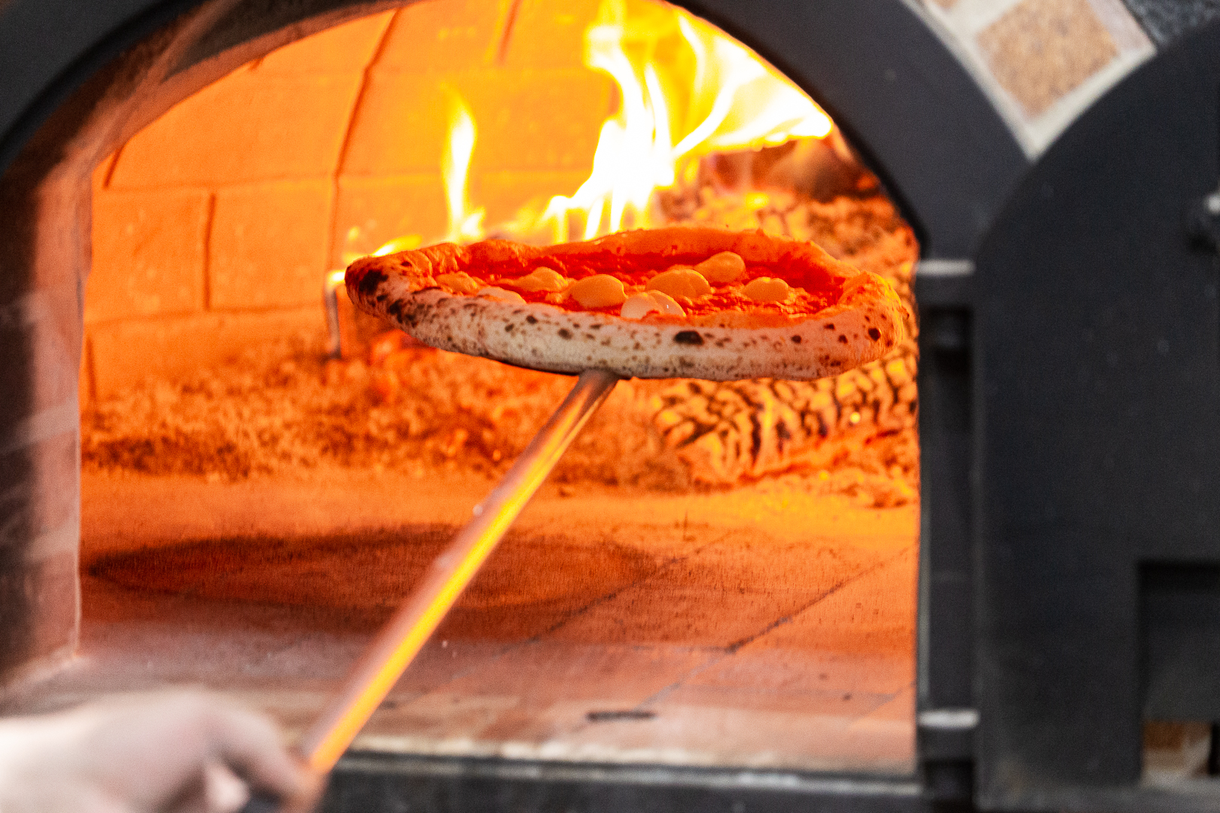
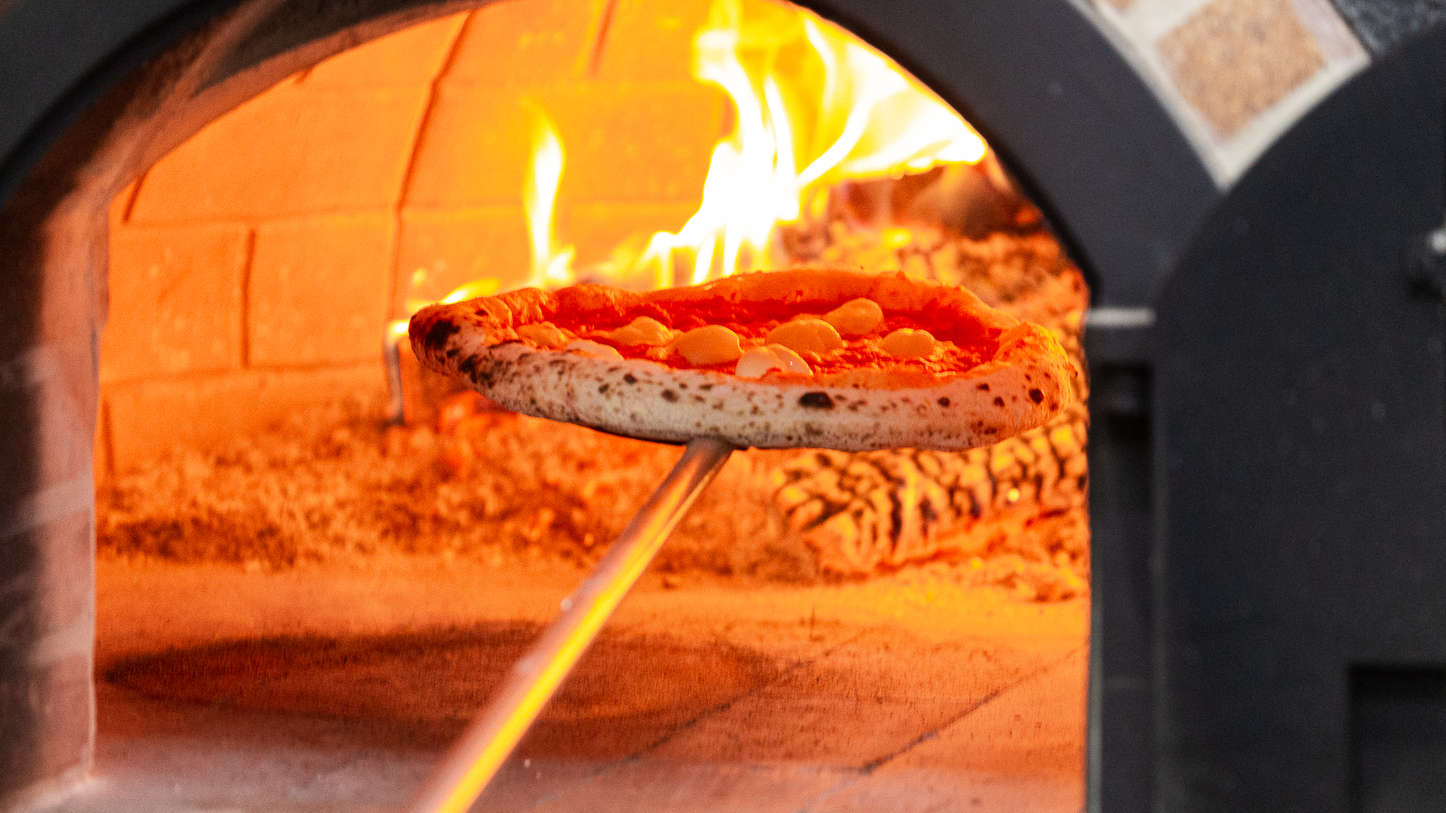
slider and paralax ready

diff --git a/src/components/HomePage.vue b/src/components/HomePage.vue
@@ -1,5 +1,6 @@
 <template>
   <div>
+    <!--
     <v-parallax
       v-for="(paralaxItem, index) in paralaxItems"
       :key="index"
@@ -17,6 +18,30 @@
         </v-col>
       </v-row>
     </v-parallax>
+    <hr />
+    <hr />
+    <hr />
+    <hr />
+    -->
+    <v-carousel hide-delimiters cycle show-arrows-on-hover height="900">
+      <v-carousel-item v-for="(paralaxItem, index) in paralaxItems" :key="index">
+        <v-parallax
+          dark
+          class="mb-4"
+          :height="imgHeight"
+          :src="require(`@/assets/bg/horizontal/${paralaxItem.img.horizontal}`)"
+        >
+          <v-row align="end" justify="end" class="mb-10">
+            <v-col lg="10" class="text-center" cols="12">
+              <v-img
+                width="100%"
+                :src="require(`@/assets/bg/text/${languege}/${paralaxItem.inscription}`)"
+              ></v-img>
+            </v-col>
+          </v-row>
+        </v-parallax>
+      </v-carousel-item>
+    </v-carousel>
   </div>
 </template>
 

diff --git a/src/components/HeaderSait.vue b/src/components/HeaderSait.vue
@@ -18,7 +18,7 @@
       v-for="(itemMenu, index) in menuHeader"
       :key="index"
       text
-      @click="$vuetify.goTo(itemMenu.src, {duration:7000, offset: 0, easing: 'linear'})"
+      @click="$vuetify.goTo(itemMenu.src, {duration:1000, offset: 0, easing: 'linear'})"
     >{{itemMenu.text[language]}}</v-btn>
   </v-app-bar>
 </template>
